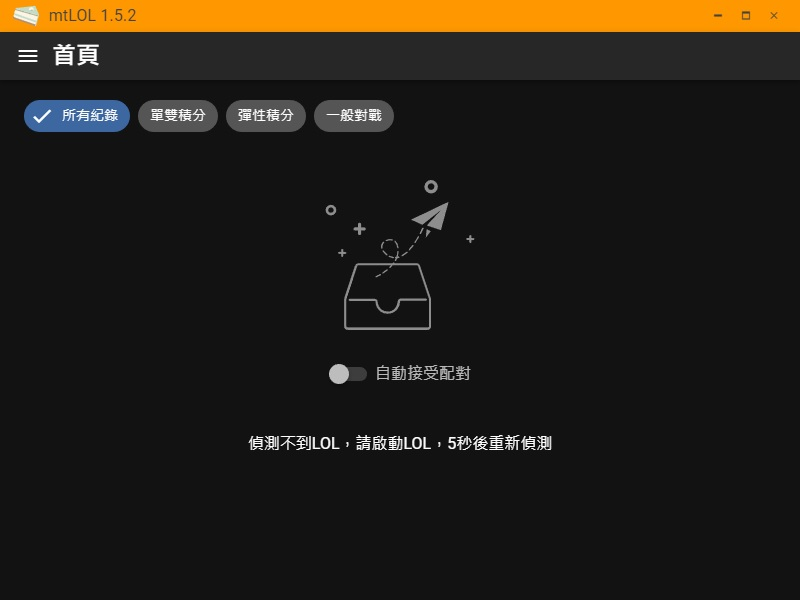
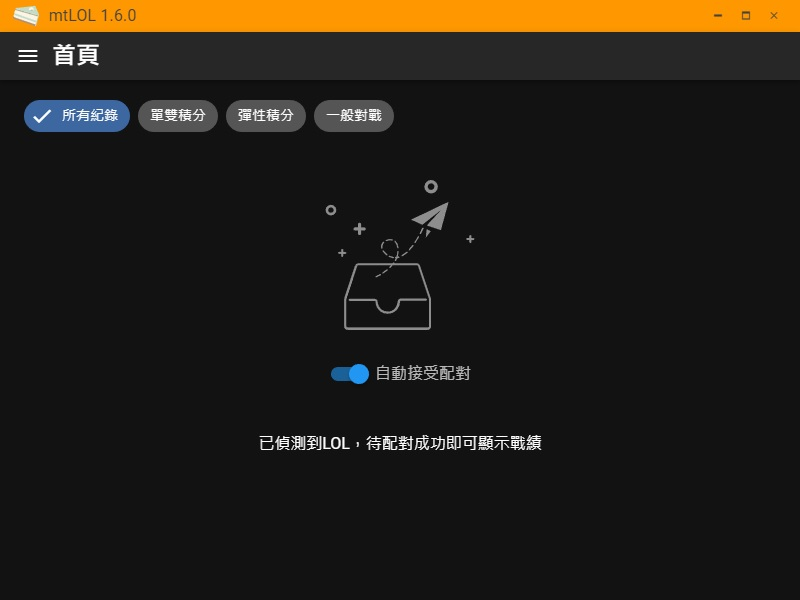
add arrangeteam search

Changed region(s): [[0.3125, 0.72, 0.6875, 0.75], [0.4062, 0.6, 0.4688, 0.66]]

diff --git a/src/renderer/App.vue b/src/renderer/App.vue
@@ -25,7 +25,6 @@
       AppSystemBar,
       AppBar,
       AppNavDrawer
-      // ,AppTable
     },
     async created () {
       const checkAdmin = await isAdmin()
@@ -130,7 +129,6 @@
         await Promise.all(this.teamList.map(async (el, index) => {
           const response = await request({
             url: `/lol-summoner/v1/summoners/${el.summonerId}`,
-            // url: `/lol-ranked/v1/ranked-stats/0e1e1b6c-74a1-5c6e-8e8b-d25aeb59e770`,
             method: 'GET'
           }, this.credentials)
           const json = await response.json()
@@ -183,19 +181,65 @@
             rankData: el.rankData,
             games: playerHistory.data.games.games
           }
-          /*
-          this.playerHistory.push(
-            {
-              displayName: el.displayName,
-              rankData: el.rankData,
-              games: playerHistory.data.games.games
-            }
-          )
-          */
         }))
-        this.$store.commit('setStatus', '戰積查詢完成')
-        this.$store.commit('setMyTeamPlayHistorys', playerHistoryTemp)
+        this.playerHistory = playerHistoryTemp
         // console.log(playerHistoryTemp)
+      },
+      async getAllGamesTeamMateList () {
+        this.$store.commit('setStatus', '戰積查詢完成，過濾雙排資訊中')
+        // https://acs-garena.leagueoflegends.com/v1/stats/game/TW/1793285941/
+        // each player
+        let playerHistoryTemp = [...this.playerHistory]
+        await Promise.all(playerHistoryTemp.map(async (eachPlayer, index) => {
+          let allGamesTeamMateList = []
+          // player each games
+          await Promise.all(eachPlayer.games.map(async game => {
+            const teamId = game.participants[0].teamId
+            const gameHistory = await axios.get(`${this.proxy}https://acs-garena.leagueoflegends.com/v1/stats/game/TW/${game.gameId}`, {
+              headers: {
+                'X-Requested-With': 'XMLHttpRequest'
+              }
+            })
+            // each games teammate ID
+            let eachGamesTeammateIdList
+            if (teamId === 100) {
+              eachGamesTeammateIdList = gameHistory.data.participantIdentities.slice(0, 5)
+            } else {
+              eachGamesTeammateIdList = gameHistory.data.participantIdentities.slice(5, 10)
+            }
+            // each games summonerName
+            const eachGamesSummonerName = eachGamesTeammateIdList.map(teammate => {
+              if (teammate.player.summonerName !== eachPlayer.displayName) return teammate.player.summonerName
+            })
+            allGamesTeamMateList.push(...eachGamesSummonerName)
+          }))
+          playerHistoryTemp[index].allGamesTeamMateList = allGamesTeamMateList
+        }))
+      },
+      async checkArrangeTeam () {
+        let playerHistoryTemp = [...this.playerHistory]
+        // use eachPlayer find arrangeTeamList
+        playerHistoryTemp.forEach((currentPlayer, index) => {
+          const currentId = currentPlayer.displayName
+          const arrangeTeamList = []
+          // compare allGamesTeamMateList === anotherPlayer
+          playerHistoryTemp.forEach(anotherPlayer => {
+            if (anotherPlayer.displayName !== currentId) {
+              const teammateCounts = currentPlayer.allGamesTeamMateList.filter(name => {
+                return name === anotherPlayer.displayName
+              })
+              if (teammateCounts.length > 0) {
+                arrangeTeamList.push({id: anotherPlayer.displayName, counts: teammateCounts.length})
+              }
+            }
+          })
+          // 找完
+          playerHistoryTemp[index].arrangeTeamList = arrangeTeamList
+        })
+        // console.log(playerHistoryTemp)
+        this.playerHistory = playerHistoryTemp
+        this.$store.commit('setStatus', '戰積查詢完成')
+        this.$store.commit('setMyTeamPlayHistorys', this.playerHistory)
       }
     },
     data: () => ({
@@ -214,8 +258,8 @@
         MASTER: '大師',
         CHALLENGER: '菁英',
         NONE: '無牌位'
-      }
-      //
+      },
+      playerHistory: []
     }),
     computed: {
       isAutoAccept () {
@@ -233,9 +277,10 @@
           await this.getTeamList()
           await this.getAccountId()
           await this.getPlayerHistory()
+          await this.getAllGamesTeamMateList()
+          await this.checkArrangeTeam()
           this.$store.commit('setStatus', '戰積查詢完成')
         }
-        // console.log(gameflow)
       }
     }
   }

diff --git a/src/renderer/views/Home.vue b/src/renderer/views/Home.vue
@@ -8,15 +8,23 @@
         <v-chip filter>彈性積分</v-chip>
         <v-chip filter>一般對戰</v-chip>
       </v-chip-group>
+
+      <!-- empty state -->
       <v-img src="static/empty.svg" width="150" class="mx-auto mt-10" v-if="myTeamPlayHistorys.length === 0"></v-img>
+
       <!-- eachPlayerInfo -->
       <v-card class="mx-3 mt-5" v-for="myTeamPlayHistory in myTeamPlayHistorys" :key="myTeamPlayHistory.displayName">
         <v-row>
           <v-col>
-            <v-card-title>{{ myTeamPlayHistory.displayName }}</v-card-title>
+            <v-card-title>
+              {{ myTeamPlayHistory.displayName }}
+              <v-chip class="ml-3 grey darken-4 primary" v-for="(arrangeTeamList, index) in myTeamPlayHistory.arrangeTeamList" :key="index">
+              與{{ arrangeTeamList.id }}雙排{{ arrangeTeamList.counts }}場
+              </v-chip>
+            </v-card-title>
           </v-col>
         </v-row>
-        <v-card-text class="text--secondary my-0 py-1">
+        <v-card-text class="text--secondary my-0 pb-1 pt-0">
           <span v-for="historyList in historyLists" :key="historyList.title">
             <v-icon class="mx-1" color="rgba( 255, 255, 255, 0.7)" >{{ historyList.icon }}</v-icon>
               <span class="mr-1">
@@ -114,7 +122,7 @@ export default {
         MIDDLE: '中路',
         JUNGLE: '打野',
         BOTTOM: '下路',
-        NONOE: ''
+        NONE: ''
       }
       return laneTable[lane]
     },

diff --git a/src/renderer/views/About.vue b/src/renderer/views/About.vue
@@ -1,4 +1,5 @@
 <template>
+  <vue-custom-scrollbar class="scroll-area">
   <v-container>
     <v-card class="mx-3 mt-5">
       <v-card-title>
@@ -10,9 +11,6 @@
       <v-row>
         <v-col>
           <v-card-text>
-            街口帳號: 901917853 (抹綠)
-          </v-card-text>
-          <v-card-text>
             巴哈姆特: k888333617 (草泥馬)
           </v-card-text>
           <v-card-text>
@@ -22,16 +20,28 @@
         Source Code: https://github.com/motea927/mtLOL
       </v-card-text>
         </v-col>
-        <v-col cols="5" class="mt-n5">
-          <v-img src="static/jko.jpg" width="200" class="mx-auto my-5"></v-img>
-        </v-col>
       </v-row>
     </v-card>
+      
+    <v-card class="mx-3 mt-5">
+      <v-card-title>
+        街口支付
+      </v-card-title>
+      <v-img src="/static/jko.png" contain width="300" class="mx-auto"></v-img>
+      <v-card-text>
+        街口帳號: 901917853 (抹綠)
+      </v-card-text>
+    </v-card>
   </v-container>
+  </vue-custom-scrollbar>
 </template>
 
 <script>
+import vueCustomScrollbar from 'vue-custom-scrollbar'
 export default {
+  components: {
+    vueCustomScrollbar
+  },
   methods: {
     goTolink (event) {
       console.log(event)

diff --git a/src/renderer/components/AppSystemBar.vue b/src/renderer/components/AppSystemBar.vue
@@ -1,7 +1,7 @@
 <template>
   <v-system-bar window class="systembar" color="orange">
     <img src="static/icons.svg" alt="" class="systembar__icon">
-    <h1 class="subtitle-1 grey--text text--darken-3">mtLOL 1.5.2</h1>
+    <h1 class="subtitle-1 grey--text text--darken-3">mtLOL 1.6.0</h1>
     <v-spacer></v-spacer>
     <v-btn icon small @click="controlWindow('min')" class="systembar__btn">
       <v-icon x-small color="grey darken-3">mdi-window-minimize</v-icon>

diff --git a/README.md b/README.md
@@ -1,7 +1,7 @@
 
 # :trophy: mtLOL 英雄聯盟積分戰績輔助工具
 
-下載點1.5.2：https://drive.google.com/file/d/1uRPU3ERlZ7JSRkCqUq2kkBchRSup_QHK/view?usp=sharing
+下載點1.6.0：https://drive.google.com/file/d/1HLqtZPhSslrQ7BoZDNWykIksfBXPTtcj/view?usp=sharing
 
 一款英雄聯盟單雙排積分查詢輔助工具，只需開著程式當配對成功進入聊天室即可自動查詢戰績
 
